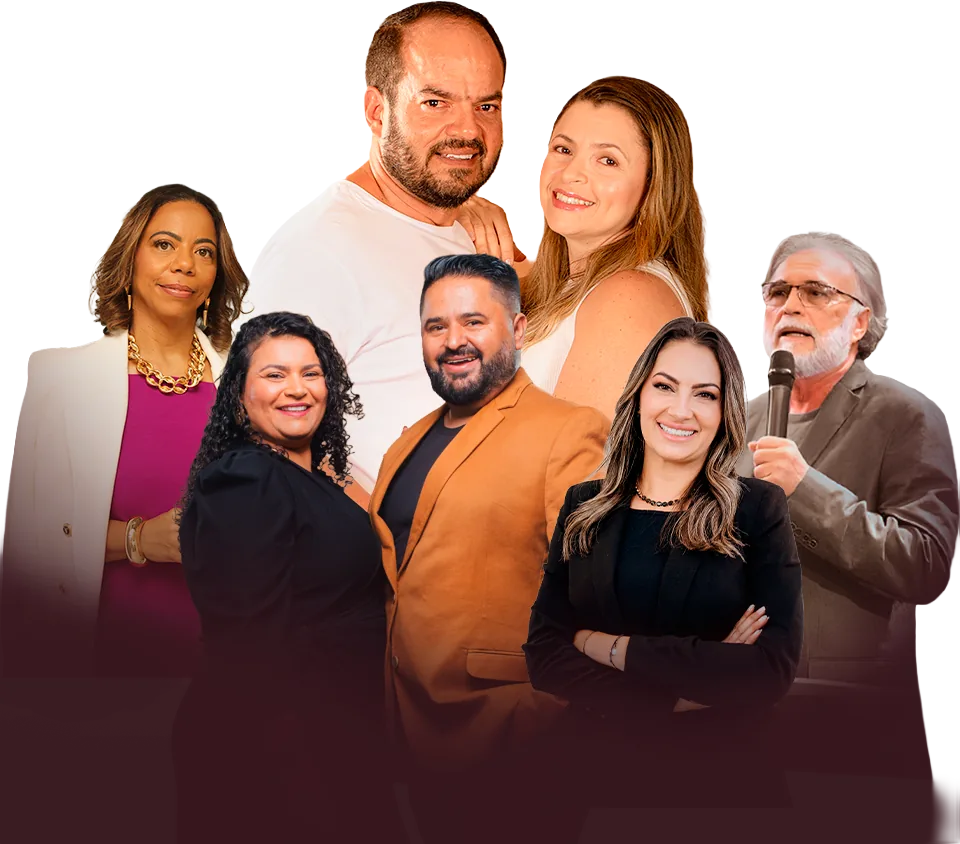
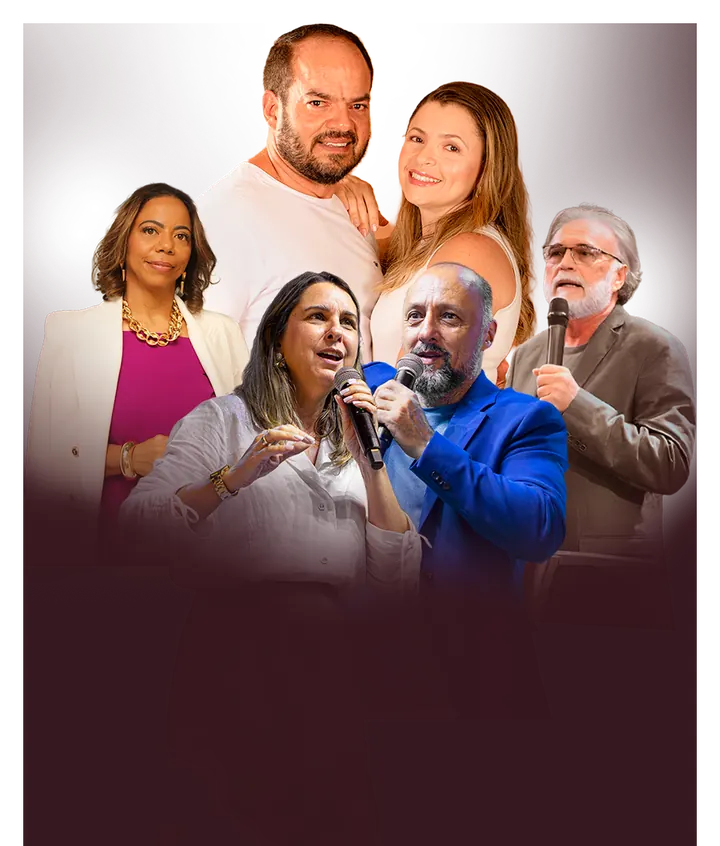
Hero: trocar foto de preletores pela arte AKAMP VERTICAL, aumentar tamanho e remover sombra inferior duplicada

diff --git a/css/style.css b/css/style.css
@@ -628,8 +628,8 @@ html { scrollbar-width: none; -ms-overflow-style: none; }
 
 .hero-foto-frame {
   position: relative;
-  width: 120%;
-  max-width: 720px;
+  width: 145%;
+  max-width: 900px;
   margin-right: -5rem;
 }
 
@@ -639,9 +639,8 @@ html { scrollbar-width: none; -ms-overflow-style: none; }
   position: absolute;
   inset: 0;
   background:
-    linear-gradient(to bottom, transparent 55%, rgba(13,3,7,0.95) 100%),
-    linear-gradient(to right,  transparent 70%, rgba(13,3,7,0.6)  100%),
-    linear-gradient(to top,    transparent 90%, rgba(13,3,7,0.4)  100%);
+    linear-gradient(to right, transparent 70%, rgba(13,3,7,0.6) 100%),
+    linear-gradient(to top,   transparent 90%, rgba(13,3,7,0.4) 100%);
   pointer-events: none;
   z-index: 1;
 }

diff --git a/index.html b/index.html
@@ -3465,7 +3465,7 @@ a:hover, a:active { color: var(--gold-light); }
       <!-- Preletores: coluna direita do grid -->
       <div class="hero-right">
         <div class="hero-foto-frame">
-          <img src="images/preletores-akampamor-2026.webp" alt="Preletores do Akampamor 2026: 4 Estações" class="hero-foto" width="800" height="600" fetchpriority="high" />
+          <img src="images/preletores-akampamor-2026.webp" alt="Preletores do Akampamor 2026: 4 Estações" class="hero-foto" width="720" height="846" fetchpriority="high" />
         </div>
       </div>
 
